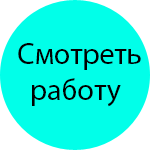
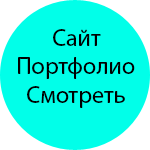
changeds buttons and work section

Changed region(s): [[0.1067, 0.1867, 0.96, 0.72]]

diff --git a/port.html b/port.html
@@ -71,49 +71,49 @@
          <div  id="demo" class="container gallery magicwall">
             <ul class="magicwall-grid">
                Мой первый сайт-портфолио
-               <li data-thumb="../wp-content/uploads/port1/OBI2.jpg">
+               <li data-thumb="../wp-content/uploads/port1/1.jpg">
                   <div class="hover-content vcenter"></div>
-                  <a href='../wp-content/uploads/port1/OBI2.jpg'target="_blank" title='<a href="other\projekty\regular\obi\syr1tsa.github.io-master\index.html" target="_blank">Мой первый сайт-портфолио</a>' class='colorbox' rel='magicwall11'></a>
+                  <a href='../wp-content/uploads/port1/1.jpg'target="_blank" title='<a href="other\projekty\regular\obi\syr1tsa.github.io-master\index.html" target="_blank">Мой первый сайт-портфолио. Нажмите здесь,чтобы перейти на него</a>' class='colorbox' rel='magicwall11'></a>
                </li>
                Мой второй сайт-портфолио
-               <li data-thumb="../wp-content/uploads/port2/1.jpg">
+               <li data-thumb="../wp-content/uploads/port2/2.jpg">
                   <div class="hover-content vcenter"></div>
-                  <a href='../wp-content/uploads/port2/2.jpg' target="_blank" title='<a href="other\projekty\regular\obi\my_portfolio" target="_blank">Мой второй сайт-портфолио/</a>' class='colorbox' rel='magicwall12'></a>
+                  <a href='../wp-content/uploads/port2/2.jpg' target="_blank" title='<a href="other\projekty\regular\obi\my_portfolio" target="_blank">Мой второй сайт-портфолио. Нажмите здесь,чтобы перейти на него</a>' class='colorbox' rel='magicwall12'></a>
                </li>
                Gipsolit
-               <li data-thumb="../wp-content/uploads/port3/1.png">
+               <li data-thumb="../wp-content/uploads/port3/3.jpg">
                   <div class="hover-content vcenter"></div>
-                  <a href='../wp-content/uploads/port3/1.png'target="_blank" title='<a href="https://gipsolit.github.io/" target="_blank">Перейти на сайт</a>' class='colorbox' rel='magicwall11'></a>
+                  <a href='../wp-content/uploads/port3/3.jpg'target="_blank" title='<a href="https://gipsolit.github.io/" target="_blank">Сайт Штукатурка Стен. Нажмите здесь,чтобы перейти на него</a>' class='colorbox' rel='magicwall11'></a>
                </li>  
                Web Agency
-               <li data-thumb="../wp-content/uploads/port4/1.png">
+               <li data-thumb="../wp-content/uploads/port4/4.jpg">
                   <div class="hover-content vcenter"></div>
-                  <a href='../wp-content/uploads/port4/1.png'target="_blank" title='<a href="https://agencyw.github.io/" target="_blank">Перейти на сайт</a>' class='colorbox' rel='magicwall11'></a>
+                  <a href='../wp-content/uploads/port4/4.jpg'target="_blank" title='<a href="https://agencyw.github.io/" target="_blank">Сайт Веб-Студии. Нажмите здесь,чтобы перейти на него</a>' class='colorbox' rel='magicwall11'></a>
                </li>   
                Cuda Project
-               <li data-thumb="../wp-content/uploads/port5/1.png">
+               <li data-thumb="../wp-content/uploads/port5/5.jpg">
                   <div class="hover-content vcenter"></div>
-                  <a href='../wp-content/uploads/port5/1.png'target="_blank" title='<a href="https://cudaproject.github.io/" target="_blank">Перейти на сайт</a>' class='colorbox' rel='magicwall11'></a>
+                  <a href='../wp-content/uploads/port5/5.jpg'target="_blank" title='<a href="https://cudaproject.github.io/" target="_blank">Сайт Дизайн Студии. Нажмите здесь,чтобы перейти на него</a>' class='colorbox' rel='magicwall11'></a>
                </li>   
                Сайт для парикмахера        
-               <li data-thumb="../wp-content/uploads/port6/1.png">
+               <li data-thumb="../wp-content/uploads/port6/6.jpg">
                   <div class="hover-content vcenter"></div>
-                  <a href='../wp-content/uploads/port6/1.png'target="_blank" title='<a href="https://inowi.github.io/" target="_blank">Перейти на сайт</a>' class='colorbox' rel='magicwall11'></a>
+                  <a href='../wp-content/uploads/port6/6.jpg'target="_blank" title='<a href="https://inowi.github.io/" target="_blank">Сайт-портфолио парикмахера. Нажмите здесь,чтобы перейти на него</a>' class='colorbox' rel='magicwall11'></a>
                </li> 
                Мой первый простой сайт       
-               <li data-thumb="../wp-content/uploads/port7/1.png">
+               <li data-thumb="../wp-content/uploads/port7/7.jpg">
                   <div class="hover-content vcenter"></div>
-                  <a href='../wp-content/uploads/port7/1.png'target="_blank" title='<a href="https://millionnaverstke.github.io" target="_blank">Перейти на сайт</a>' class='colorbox' rel='magicwall11'></a>
+                  <a href='../wp-content/uploads/port7/7.jpg'target="_blank" title='<a href="https://millionnaverstke.github.io" target="_blank">Сайт "Миллион на вёрстке". Нажмите здесь,чтобы перейти на него</a>' class='colorbox' rel='magicwall11'></a>
                </li> 
                Простой YouTube на Javascript      
-               <li data-thumb="../wp-content/uploads/port8/1.png">
+               <li data-thumb="../wp-content/uploads/port8/8.jpg">
                   <div class="hover-content vcenter"></div>
-                  <a href='../wp-content/uploads/port8/1.png'target="_blank" title='<a href="https://youtubeonjs.github.io" target="_blank">Перейти на сайт</a>' class='colorbox' rel='magicwall11'></a>
+                  <a href='../wp-content/uploads/port8/8.jpg'target="_blank" title='<a href="https://youtubeonjs.github.io" target="_blank">Сайт "YouTube на Javascript". Нажмите здесь,чтобы перейти на него</a>' class='colorbox' rel='magicwall11'></a>
                </li> 
                Сайт-визитка / Резюме    
-               <li data-thumb="../wp-content/uploads/port9/1.png">
+               <li data-thumb="../wp-content/uploads/port9/9.jpg">
                   <div class="hover-content vcenter"></div>
-                  <a href='../wp-content/uploads/port9/1.png'target="_blank" title='<a href="https://resumesiteweb.github.io/" target="_blank">Перейти на сайт</a>' class='colorbox' rel='magicwall11'></a>
+                  <a href='../wp-content/uploads/port9/9.jpg'target="_blank" title='<a href="https://resumesiteweb.github.io/" target="_blank">Сайт-Резюме Веб-разработчика. Нажмите здесь,чтобы перейти на него</a>' class='colorbox' rel='magicwall11'></a>
                </li> 
                </ul>
          </div>

diff --git a/wp-content/cache/autoptimize/autoptimize_629f20cfdcb771cc80cd7cbd5e5f889a.php.css b/wp-content/cache/autoptimize/autoptimize_629f20cfdcb771cc80cd7cbd5e5f889a.php.css
@@ -2336,7 +2336,6 @@ a img.aligncenter{
     width:100%;
     height:100%;
     z-index:9;
-    background:url(../../themes/jj/img/circle.png) no-repeat center;
     opacity:0;
     -webkit-transition:all .15s ease-out;
     -moz-transition:all .15s ease-out;
@@ -2344,6 +2343,33 @@ a img.aligncenter{
     -webkit-transform:scale(.2);
     -ms-transform:scale(.2);
     transform:scale(.2)
+}
+.magicwall li:nth-child(1) a.colorbox {
+    background:url(../../themes/jj/img/circle.png) no-repeat center;
+}
+.magicwall li:nth-child(2) a.colorbox {
+    background:url(../../themes/jj/img/circle.png) no-repeat center;
+}
+.magicwall li:nth-child(3) a.colorbox {
+    background:url(../../themes/jj/img/circle2.png) no-repeat center;
+}
+.magicwall li:nth-child(4) a.colorbox {
+    background:url(../../themes/jj/img/circle3.png) no-repeat center;
+}
+.magicwall li:nth-child(5) a.colorbox {
+    background:url(../../themes/jj/img/circle4.png) no-repeat center;
+}
+.magicwall li:nth-child(6) a.colorbox {
+    background:url(../../themes/jj/img/circle5.png) no-repeat center;
+}
+.magicwall li:nth-child(7) a.colorbox {
+    background:url(../../themes/jj/img/circle6.png) no-repeat center;
+}
+.magicwall li:nth-child(8) a.colorbox {
+    background:url(../../themes/jj/img/circle7.png) no-repeat center;
+}
+.magicwall li:nth-child(9) a.colorbox {
+    background:url(../../themes/jj/img/circle8.png) no-repeat center;
 }
 .magicwall li:hover a.colorbox{
     opacity:1;
@@ -2383,8 +2409,8 @@ a img.aligncenter{
     color:#08fdd8;
     display:block;
     background:#252627;
-    font-size:13px;
-    padding:5px 20px;
+    font-size:30px;
+    padding:10px 20px;
     -webkit-animation-duration:1s;
     animation-duration:1s;
     -webkit-animation-fill-mode:both;
@@ -2394,6 +2420,7 @@ a img.aligncenter{
     backface-visibility:visible !important;
     animation-name:flipInX
 }
+
 #cboxLoadingOverlay,#cboxLoadingGraphic{
     position:absolute;
     top:0;
@@ -7713,6 +7740,9 @@ input:focus:-ms-input-placeholder{
     }
 }
 @media (max-width:750px){
+    #cboxTitle a {
+        font-size: 13px;
+    }
     #nav_bar nav a{
         margin-left:10%
     }

diff --git a/skill.html b/skill.html
@@ -129,7 +129,7 @@
       <div class="preloader">
          <div class="inner">
             <img src="../wp-content/themes/jj/img/logopreload.png"
-               alt="Wordpress Developer Loader, Web Developer Loader , Front End Developer Loader"/> <span>Загрузка.../span>
+               alt="Wordpress Developer Loader, Web Developer Loader , Front End Developer Loader"/> <span>Загрузка...</span>
             <div class="progress-bar">
                <div class="progress-bar_bg">
                   <div></div>
